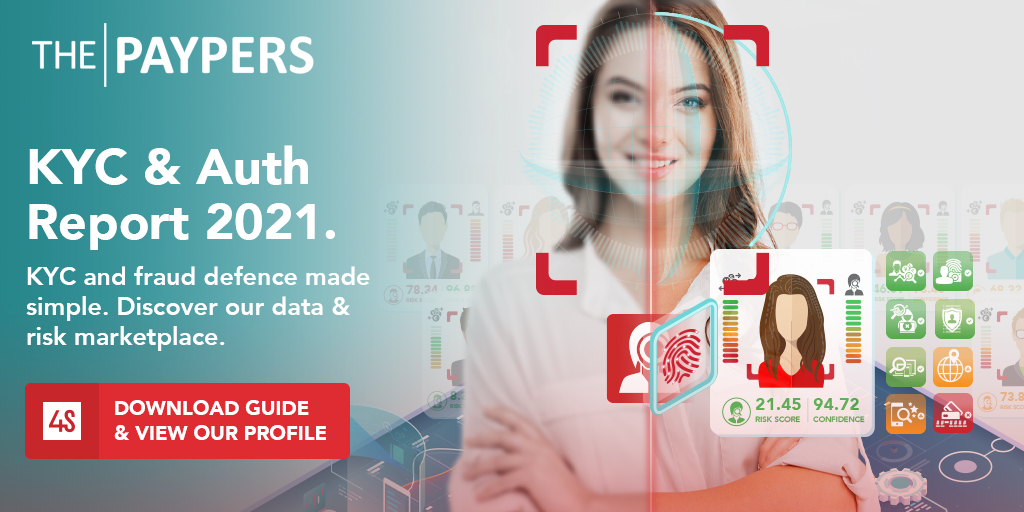
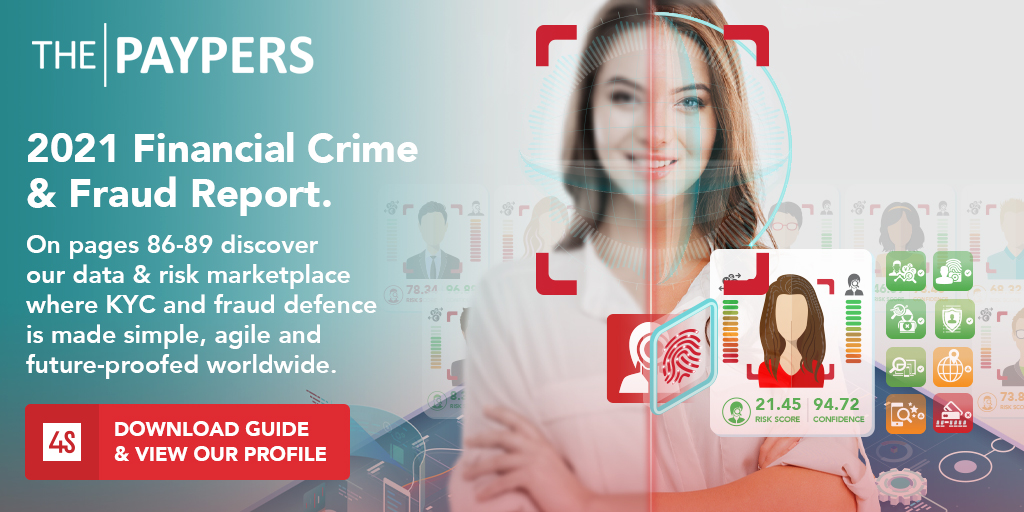
edits

Changed region(s): [[0.0, 0.25, 0.4062, 0.9375]]

diff --git a/company/careers.html b/company/careers.html
@@ -271,81 +271,81 @@ a.async=true;a.type="text/javascript";b.parentNode.insertBefore(a,b)}, 1);
 							
 						</div>
 
-<section id="section-team" class="page-section">
+				<section id="section-team" class="page-section">
 						<div class="col-lg-5 topmargin-sm">
 							<div style="position: relative;" class="ohidden" data-height-lg="426" data-height-md="567" data-height-sm="470" data-height-xs="287" data-height-xxs="183">
 								<img src="../images/services/4S-platform-dashboard.png" style="position: absolute; top: 0; left: 0;" data-animate="fadeInRight" data-delay="100" alt="Support Services">
 								<img src="../images/company/office-region.png" style="position: absolute; top: 0; left: 0;" data-animate="fadeInRight" data-delay="400" alt="Support Services">
 							</div>
 						</div>
+					
 					</div>
 				</div>
 				
 
-			<div class="container clearfix topmargin-md">
+			<div class="container clearfix">
 				<div class="row clearfix">
 					
 				
-				<div class="col-md-8">
-						<h3 style="font-size: 20px; font-weight:300; line-height: 1.4;"><b>Finance Employee - Accounting (m / f / d)</b> | Cologne, Germany, Head Office<br><b>Mitarbeiter Finanzen – Buchhaltung (w / m / d)</b> in Köln, ab sofort</h3>
-				</div>
+				<div class="col-md-12">
+						<h3 style="font-size: 20px; font-weight:300; line-height: 1.4;"><b>Underwriter / Onboarding Manager (w/m/d)</b> | Köln, Deutschland</h3>
 
-				<div class="col-md-4">
-						<p><a href="mailto:careers@4stop.com" class="button button-dark button-rounded uppercase nomargin" style="padding-right:40px; padding-left:40px;">Email us to apply today</a></p>
-				</div>
-
-				<div class="col-md-12 topmargin-sm">
-					<h3 style="font-size: 18px; font-weight: 300; line-height: 1.4; color:#484f5e;">Die FourStop GmbH ist ein Anbieter von Compliance- und Risikomanagement-Software. Das Unternehmen mit Hauptsitz in Köln bietet für die internationale Zahlungsindustrie eine integrierte One-Stop-Lösung für KYC, KYB, Compliance und Betrugsprävention. 
+						<h3 style="font-size: 18px; font-weight: 300; line-height: 1.4; color:#484f5e;">Als Underwriter / Onboarding Manager bei FourStop ist es Deine Aufgabe, das Wachstum des Unternehmens durch einen schnellen Start neuer Kunden zu ermöglichen und dauerhaft zu unterstützen. Zu den Kunden von FourStop gehören bekannte internationale Unternehmen mit Bedarf an RegTech-Lösungen. Von der allgemeinen Einschätzung potentieller Kunden über die Risiko-Bewertung bis hin zur Analyse der Einhaltung aller derzeit geltenden Regularien und Vorschriften wirst Du in jeder Phase des Onboarding-Prozesses die Effizienz steigern.
 
 					<br><Br>
-					Seit Gründung im Jahr 2016 konnte das internationale Team erfolgreich Kunden gewinnen und wird aktuell als eines von 25 Startups in Köln bewertet, die im Jahr 2020 im Blick zu behalten sind .
-					<br><br>
+					Der ideale Kandidat verfügt über außergewöhnliche analytische Fähigkeiten, einen ausgeprägten Geschäftssinn und ein solides kritisches Urteilsvermögen, insbesondere unter Termindruck und in einem schnelllebigen Arbeitsumfeld.
 
-					Zur Verstärkung im Finanzbereich suchen wir einen qualifizierten Mitarbeiter für unsere Buchhaltung, um quantitative Informationen über Leistung, Finanzlage, Zahlungsfähigkeit, Liquidität und Cashflows unseres Unternehmens bereitzustellen.
 					</h3> 
-
 				</div>
-			</div>
-		</div>
-
-
-		<div class="container clearfix topmargin-md bottommargin-md">
-			<div class="row clearfix">
 
 
 				
-				<div class="col-md-4">
+				<div class="col-md-12">
 					<h4 style="font-size:16px;">Deine Aufgaben:<br>
-									<span style="color:#58595b; font-size:14px;">
-									• Vorbereitende Buchhaltung für Kreditoren und Debitoren<Br> 
-									• Ansprechpartner für Steuerberater, Wirtschafts- und Betriebsprüfer<Br>
-									• Organisation, Überwachung und Sicherstellung der Abläufe in der Finanzbuchhaltung<Br>
-									• Erstellung von Rechnungen, regelmäßigen Auswertungen und Analysen <br>
-									• Weiterentwicklung aller mit der Buchhaltung zusammenhängenden Prozesse, Abläufe, Schnittstellen und Systeme</span></h4>
+						<span style="color:#58595b; font-size:14px;">
+							<ul style="padding-left:20px; padding-top:5px;">
+								<li>Durchführung der Erstprüfung und initiale Risikobewertung der potentiellen Kunden, um ihre Compliance zu überprüfen.</li>
+								<li>Durchführung von Due Diligence- und Hintergrundprüfungen, z. B. Website-Prüfungen, AGB oder Vertragsüberprüfung, sowie Stakeholder-Interviews, unter Verwendung interner und externer Ressourcen zur Geschäfts- und Compliance-Bewertung.</li>
+								<li>Funktion als Ansprechpartner für Antragsteller und Analyse der gesammelten Informationen.</li>
+								<li>Überprüfung und Bewertung von Verträgen, Vereinbarungen, NDAs usw. und mögliche Änderungen nach eigenem Ermessen vorschlagen.</li>
+								<li>Unterstützung der Entscheidungsprozesse und Aussprechen von Handlungsempfehlungen basierend auf Deiner gründlichen Analyse.</li>
+								<li>Entwicklung und Implementierung von benutzerfreundlichen Risikoparameter für neu genehmigte Kunden.</li>
+								<li>Verantwortung für die Gewährleistung, dass bestehende Kunden alle aktuellen Regularien und Vorschriften einhalten.</li>
+								<li>Aktive Entwicklung und Umsetzung neuer Prozesse, um das Onboarding-Verfahren kontinuierlich zu optimieren.</li>
+
+							</ul>
+						</span></h4>
 				</div>
 
-				<div class="col-md-4">
+				<div class="col-md-12">
 					<h4 style="font-size:16px;">Dein Profil:<br>
-									<span style="color:#58595b; font-size:14px;">
-									• Abgeschlossene Ausbildung oder vergleichbares Studium im Bereich der Finanz-/ Betriebswirtschaft <br>
-									• Praktische Erfahrung im genannten Aufgabenbereich von mindestens drei Jahren <Br>
-									• Erfahrung im Umgang mit Buchhaltungssoftware/-systemen insbesondere DATEV <br>
-									• Sehr gute MS Office-Kenntnisse <br>
-									• Sehr gute Englischkenntnisse in Wort und Schrift <br>
-									• Ausgeprägte analytische Fähigkeiten, strukturiertes Denken sowie sehr gutes Zahlenverständnis <br>
-									• Hohes Verantwortungsbewusstsein sowie eine schnelle Auffassungsgabe <br>
-									• Selbständigkeit, Zuverlässigkeit und Belastbarkeit gekoppelt mit einem hohen Maß an Kommunikationsfähigkeit und organisatorischem Geschick</span></h4>
+						<span style="color:#58595b; font-size:14px;">
+							<ul style="padding-left:20px; padding-top:5px;" >
+								<li>Methodische, sorgfältige und analytische Denkweise mit hervorragenden Planungs-, Dokumentations- und Organisationsfähigkeiten.</li>
+								<li>Min. 3 Jahre Berufserfahrung als Underwriter oder Onboarding Manager in einer datengesteuerten Umgebung.</li>
+								<li>Nachgewiesene Berufserfahrung mit AML, Due Diligence und Risikomanagement.</li>
+								<li>Analytisches Denken und die Fähigkeit, mehrere Faktoren in Bezug auf einen bestimmten Kunden zu bewerten und Empfehlungen anhand Deiner Erfahrung zu bewerten.</li>
+								<li>Detailorientierung sowohl bei der Auswertung von Anträgen als auch bei der Bedienung von Software oder der Dateneingabe.</li>
+								<li>Fähigkeit, ein hohes Maß an Vertraulichkeits- und Datensicherheitsstandards aufrechtzuerhalten.</li>
+								<li>Kompetenz zum Aufbau und effektiven Management von Beziehungen auf allen Ebenen eines Unternehmens.</li>
+								<li>Erfahrung in internationalen Teams und mit externen Partnern ist von Vorteil.</li>
+
+							</ul>	
+						</span>
+					</h4>
 				</div>
 
 
+				<div class="col-md-12">
+					<h4 style="font-size:16px;">Über 4Stop:<br>
+						<span style="color:#58595b; font-size:14px;">
+							FourStop ist ein Anbieter von Compliance- und Risikomanagementsoftware. Das Unternehmen mit Hauptsitz in Köln bietet der internationalen Payment-Branche eine integrierte One-Stop-Lösung für KYC, KYB, Compliance und Betrugsprävention. Das Team besteht aus vielfältigen und erfahrenen Branchenexperten in Deutschland, Großbritannien und Nordamerika, die sicherstellen, dass die Anforderungen globaler Kunden erfüllt werden. Seit der Gründung im Jahr 2016 konnte das internationale Unternehmen erfolgreich Kunden gewinnen und das Team erweitern. In 2020 wurde FourStop darüber hinaus als eines von 25 Startups in Köln eingestuft, um das im Auge zu behalten.
+						</span>
+					</h4>
+				</div>
+
 				<div class="col-md-4">
-					<h4 style="font-size:16px;">Was wir Dir bieten:<br>
-									<span style="color:#58595b; font-size:14px;">
-									• Interessantes und breites Aufgabenspektrum mit hohem Anteil eigenverantwortlicher Tätigkeit in einem jungen aufstrebenden Unternehmen<br>
-									• Kollegiales, teamgeprägtes und wertschätzendes Arbeitsumfeld mit flachen Hierarchien <Br>
-									• Sehr gute Entwicklungsmöglichkeiten wie beispielsweise die Weiterbildung zum Finanzbuchhalter <Br>
-									• Förderung der persönlichen Weiterentwicklung und deiner Stärken <br>
-									• Modernes Büro und flexible Arbeitszeiten (Remote Working, Gleitzeit nach Einarbeitung möglich) am Medienstandort Köln</span></h4>
+						<p><a href="mailto:careers@4stop.com" class="button button-dark button-rounded uppercase nomargin" style="padding-right:40px; padding-left:40px;">Apply Today</a></p>
 				</div>
 
 			</div>
@@ -356,117 +356,84 @@ a.async=true;a.type="text/javascript";b.parentNode.insertBefore(a,b)}, 1);
 
 
 
-					
 
+			<div class="container clearfix topmargin-sm">
+				<div class="row clearfix">
 
-		<!--<div class="container clearfix topmargin-md">
-			<div class="row clearfix">
 
 				<div class="line bottommargin-md"></div>
-
-				<div class="col-md-8">
 					
-						<h3 style="font-size: 20px; font-weight:300; line-height: 1.4;"><b>Risk Support Analyst</b> | Costa Rica Position</b></h3>
-				</div>
-
-				<div class="col-md-4">
-						<p><a href="mailto:careers@4stop.com" class="button button-dark button-rounded uppercase nomargin" style="padding-right:40px; padding-left:40px;">Email us to apply today</a></p>
-				</div>
 				
-				<div class="col-md-5">
-					<h4 style="font-size:16px;">Responsibilities Include:<br>
-									<span style="color:#58595b; font-size:14px;">
-									• Monitoring systems and product optimization<br>
-									• Support clients with product inquiries and frontline technical<br>
-									• Identify Risk anomalies and optimize policies<br>
-									• Analyze review policies and data management<br>
-									• Documenting and validating business requirements</span></h4>
+				<div class="col-md-12">
+						<h3 style="font-size: 20px; font-weight:300; line-height: 1.4;"><b>Compliance Officer / Compliance Manager (w/m/d)</b> | Köln, Deutschland</h3>
+
+						<h3 style="font-size: 18px; font-weight: 300; line-height: 1.4; color:#484f5e;">Wir suchen einen erfahrenen Compliance Officer / Compliance Manager, der die Einhaltung und Umsetzung aller aktuellen gesetzlichen Standards und internen Richtlinien sicherstellt. Du bist somit verantwortlich für die Durchsetzung von Vorschriften in allen Aspekten und Ebenen des Unternehmens sowie für Beratung bei rechtlichen Angelegenheiten. 
+
+					<br><br>
+					Der ideale Kandidat kennt sich mit rechtlichen Richtlinien und Best Practices für Corporate Governance aus. Du bist Compliance-Experte mit hohen ethischen Standards und scheust dich auch nicht davor bei Bedarf mal „Nein“ zu sagen.</h3>
+				</div>
+		
+
+
+				
+				<div class="col-md-12">
+					<h4 style="font-size:16px;">Deine Aufgaben:<br>
+						<span style="color:#58595b; font-size:14px;">
+							<ul style="padding-left:20px; padding-top:5px;">
+								<li>Entwicklung und Umsetzung von Unternehmensrichtlinien und -vorschriften.</li>
+								<li>Überwachung aller Geschäftsvorgänge in Bezug auf Compliance, einschließlich aktueller Richtlinien und Verfahren.</li>
+								<li>Überprüfung und Bewertung von Verträgen, Vereinbarungen, NDAs usw. und mögliche Änderungen nach eigenem Ermessen vorschlagen.</li>
+								<li>Implementierung sowie Verwaltung von ISO27001, GDPR oder ähnlichen Vorschriften auf Basis von fundierten Kenntnissen im Umgang mit Informationssicherheit und Datenschutz.</li>
+								<li>Skizzierung und Überwachung von Kontrollsystemen zur Handhabung von Verstößen gegen gesetzliche Vorschriften und interne Richtlinien.</li>
+								<li>Regelmäßige Bewertung der Effizienz von Steuerungssystemen und Empfehlung praktischer Verbesserungen.</li>
+								<li>Überprüfung und Bewertung der Unternehmensabläufe, um versteckte Risiken oder Nichtkonformitätsprobleme zu identifizieren.</li>
+								<li>Koordinierung mit Abteilungsleitern oder Managern, um alle Richtlinien zur Einhaltung von Compliance-Richtlinien zu überprüfen.</li>
+								<li>Durchführung regelmäßiger Audits der Unternehmensabläufe und -prozesse sowie ggf. Erstellung von Berichten für die Geschäftsleitung und externe Aufsichtsbehörden.</li>
+								<li>Fundierte Kenntnisse der regulatorischen Entwicklungen innerhalb oder außerhalb des Unternehmens sowie Weiterentwicklung der Best Practices für die Compliance-Kontrolle.</li>
+
+							</ul>
+						</span></h4>
 				</div>
 
-				<div class="col-md-5">
-					<h4 style="font-size:16px;">Skills & Experience Required:<br>
-									<span style="color:#58595b; font-size:14px;">
-									• KYC and Compliance experience <br>
-									• Achievement oriented with proven management skills <br>
-									• The ability to work independently and as part of a team <br>
-									• Managing multiple priorities with tight deadline <br>
-									• Strong attention to detail and verbal communication skills</span></h4>
+				<div class="col-md-12">
+					<h4 style="font-size:16px;">Dein Profil:<br>
+						<span style="color:#58595b; font-size:14px;">
+							<ul style="padding-left:20px; padding-top:5px;" >
+								<li>Methodische, sorgfältige und analytische Denkweise mit hervorragenden Planungs-, Dokumentations- und Organisationsfähigkeiten.</li>
+								<li>Bachelor Abschluss in Rechtswissenschaften, Betriebswirtschaftslehre oder einem verwandten Bereich.</li>
+								<li>Min. 3 Jahre Berufserfahrung als Compliance Officer, Compliance Manager oder Anwalt mit einem Compliance-Fokus.</li>
+								<li>Fundierte Kenntnisse der Branchenprozesse und -vorschriften.</li>
+								<li>Hervorragendes Verständnis der Rechts- und Compliance-Landschaft sowie die Fähigkeit, auf der Grundlage Deines Wissens geeignete Prozesse für das Unternehmen zu entwickeln.</li>
+								<li>Hervorragende Kommunikations- und zwischenmenschliche Fähigkeiten.</li>
+								<li>Erfahrung in internationalen Teams und mit externen Kanzleien ist von Vorteil.</li>
+
+							</ul>	
+						</span>
+					</h4>
 				</div>
 
-				<div class="col-md-12 bottommargin-md">
-					
-					<h4 style="font-size:16px; font-weight:300;">
-						<em>POSITIONS AVAILABLE:</em><br>
-						
 
-					<b>Full-Time Position</b> Mon - Fri</h4>
-
-						
+				<div class="col-md-12">
+					<h4 style="font-size:16px;">Über 4Stop:<br>
+						<span style="color:#58595b; font-size:14px;">
+							FourStop ist ein Anbieter von Compliance- und Risikomanagementsoftware. Das Unternehmen mit Hauptsitz in Köln bietet der internationalen Payment-Branche eine integrierte One-Stop-Lösung für KYC, KYB, Compliance und Betrugsprävention. Das Team besteht aus vielfältigen und erfahrenen Branchenexperten in Deutschland, Großbritannien und Nordamerika, die sicherstellen, dass die Anforderungen globaler Kunden erfüllt werden. Seit der Gründung im Jahr 2016 konnte das internationale Unternehmen erfolgreich Kunden gewinnen und das Team erweitern. In 2020 wurde FourStop darüber hinaus als eines von 25 Startups in Köln eingestuft, um das im Auge zu behalten.
+						</span>
+					</h4>
 				</div>
+
+				<div class="col-md-4 bottommargin-md">
+						<p><a href="mailto:careers@4stop.com" class="button button-dark button-rounded uppercase nomargin" style="padding-right:40px; padding-left:40px;">Apply Today</a></p>
+				</div>
+
 			</div>
-		</div>-->
+		</div>
 
-				
 
-					
 
-				
 
-				<!--
-					<div class="col-md-12 bottommargin-sm">
-						<div class="col-md-6">
-							<div class="col-md-2">
-								<img src="../images/company/position-data.png" width="150px;" data-animate="fadeIn">
-							</div>
 
-							<div class="col-md-10">
-								<h3 style="font-size: 20px; font-weight:300; line-height: 1.4;"><b>Risk Support Analyst</b> <br>Part-time Weekends <em>(North American Business)</em><br><span style="font-size:16px;">Fri, Sat, Sun - hours X to X</span></h3>
-								<h4 style="font-size:16px;">Responsibilities Include:<br>
-									<span style="color:#58595b; font-size:14px;">
-									• Monitoring systems and product optimization<br>
-									• Support clients with product inquiries and frontline technical<br>
-									• Identify Risk anomalies and optimize policies<br>
-									• Analyze review policies and data management<br>
-									• Documenting and validating business requirements</span></h4>
 
-								<h4 style="font-size:16px;">Skills & Experience Required:<br>
-									<span style="color:#58595b; font-size:14px;">
-									• KYC and Compliance experience <br>
-									• Achievement oriented with proven management skills <br>
-									• The ability to work independently and as part of a team <br>
-									• Managing multiple priorities with tight deadline <br>
-									• Strong attention to detail and verbal communication skills</span></h4>
-							</div>
-						</div>
 
-						<div class="col-md-6">
-							<div class="col-md-2">
-								<img src="../images/company/position-data.png" width="150px;" data-animate="fadeIn">
-							</div>
-
-							<div class="col-md-10">
-								<h3 style="font-size: 20px; font-weight:300; line-height: 1.4;"><b>Risk Support Analyst</b> <br>Full-time <em>(European Business)</em><br><span style="font-size:16px;">Fri, Sat, Sun - hours X to X</span></h3>
-								<h4 style="font-size:16px;">Responsibilities Include:<br>
-									<span style="color:#58595b; font-size:14px;">
-									• Monitoring systems and product optimization<br>
-									• Support clients with product inquiries and frontline technical<br>
-									• Identify Risk anomalies and optimize policies<br>
-									• Analyze review policies and data management<br>
-									• Documenting and validating business requirements</span></h4>
-
-								<h4 style="font-size:16px;">Skills & Experience Required:<br>
-									<span style="color:#58595b; font-size:14px;">
-									• KYC and Compliance experience <br>
-									• Achievement oriented with proven management skills <br>
-									• The ability to work independently and as part of a team <br>
-									• Managing multiple priorities with tight deadline <br>
-									• Strong attention to detail and verbal communication skills</span></h4>
-							</div>
-						</div>
-
-							
-
-					</div>-->
 
 
 				

diff --git a/media/paypers-kycguide2021.html b/media/paypers-kycguide2021.html
@@ -200,7 +200,7 @@
 									<h2 class="topmargin-sm" style="color:#FFF;"  data-caption-animate="fadeInUp">KYC & Fraud Defence.</h2>
 
 									<h3 class="topmargin-xsm " style="color:#FFF;"  data-caption-animate="fadeInUp" data-caption-delay="200">
-										The Paypers Digital Onboarding and KYC Report 2021 has launched. Check out our solutions data and risk marketplace featuring premium global data services and anti-fraud from one API.</h3>
+										The Paypers Financial Crime and Fraud Report 2021 has launched. Check out our solutions data and risk marketplace featuring premium global data services and anti-fraud from one API.</h3>
 
 
 									<p data-caption-animate="fadeInUp" data-caption-delay="200"><!--The global pandemic forged a new evolution of online engagement that many experts were not anticipating for years. Online businesses desperately require customer onboarding and fraud prevention solutions in a future-proofed, agile, and streamlined manner... <br><br> -->
@@ -235,12 +235,12 @@
 						</div>
 						
 						<div class="col-md-10 left">
-								<h2 class="heading-block " style="font-weight:300; line-height:1.3;"><b>Digital Onboarding and KYC Report 2021</b><br>
+								<h2 class="heading-block " style="font-weight:300; line-height:1.3;"><b>Financial Crime and Fraud Report 2021</b><br>
 
 									<span style="font-size:20px; font-weight:300;">
 									Discover key insightful perspectives on global KYC management, latest identity verification and authentication technology and trends.<br><br> 
 
-									Published April Xth, 2021. <a href="" target="_blank">Download Report Guide</a></span></h2>
+									Published April 27th, 2021. <a href="https://thepaypers.com/reports/financial-crime-and-fraud-report-2021/r1248631" target="_blank">Download Report Guide</a></span></h2>
 						</div>
 
 
@@ -268,7 +268,7 @@
 
 									4Stop aggregates over 150 data services with 2000+ data sources and advanced proprietary technology to establish a modern end-to-end Know Your Business (KYB), Know Your Customer (KYC) compliance and anti-fraud marketplace. Businesses can select exactly what they need, where they need it and apply it instantly into their operations through various implementation methods - a white-labelled experience, the 4Stop cloud platform or the API. Eliminating the need to manage multiple third-party data providers with associated contracts and fees, drain on development resources, time to market or cumbersome processes staying current with regulatory and fraud prevention requirements. 4Stop gives flexibility, agility and future-proofed sustainability from a single integration. 
 
-									<a href="https://thepaypers.com/reports/digital-onboarding-and-kyc-report-2020/r1240850" target="_blank">View our full profile in the guide pages 60-63.</a></h3>
+									<a href="https://thepaypers.com/reports/financial-crime-and-fraud-report-2021/r1248631" target="_blank">View our full profile in the guide pages 86-89.</a></h3>
 							</div>
 
 
@@ -482,7 +482,7 @@
 					<div class="col-md-12 bottommargin-md topmargin-md center">
 							
 							<h3 style="font-size: 18px; font-weight: 300; line-height: 1.4; color:#484f5e;">
-							<a href="" target="_blank" class="button button-dark button-rounded uppercase nomargin" style="padding-right:40px; padding-left:40px;">Download Digital Onboarding and KYC Report 2021 Now</a></h3>
+							<a href="https://thepaypers.com/reports/financial-crime-and-fraud-report-2021/r1248631" target="_blank" class="button button-dark button-rounded uppercase nomargin" style="padding-right:40px; padding-left:40px;">Download Digital Onboarding and KYC Report 2021 Now</a></h3>
 
 							</div>
 

diff --git a/index.html b/index.html
@@ -205,7 +205,7 @@
 									<h2 class="topmargin-sm" style="color:#FFF;"  data-caption-animate="fadeInUp">KYC & Fraud Defence.</h2>
 
 									<h3 class="topmargin-xsm " style="color:#FFF;"  data-caption-animate="fadeInUp" data-caption-delay="200">
-										The Paypers Digital Onboarding and KYC Report 2021 has launched. Check out our solutions data and risk marketplace featuring premium global data services and anti-fraud from one API.</h3>
+										The Paypers Financial Crime and Fraud Report 2021 has launched. Check out our solutions data and risk marketplace featuring premium global data services and anti-fraud from one API.</h3>
 
 
 									<p data-caption-animate="fadeInUp" data-caption-delay="200"><!--The global pandemic forged a new evolution of online engagement that many experts were not anticipating for years. Online businesses desperately require customer onboarding and fraud prevention solutions in a future-proofed, agile, and streamlined manner... <br><br> -->
@@ -1319,10 +1319,10 @@
 									<a href="media/paypers-kycguide2021.html"><img class="image_fade" src="media/images/homepage/news-hp-paypers-kycreport2021.jpg"></a>
 								</div>
 								<div class="entry-title">
-									<h4><a href="media/paypers-kycguide2021.html">We are profiled in The Paypers Digital Onboarding and KYC Report 2021. Check out our data and risk marketplace.</a></h4><br>
+									<h4><a href="media/paypers-kycguide2021.html">We are profiled in The Paypers Financial Crime and Fraud Report 2021. Check out our data and risk marketplace.</a></h4><br>
 								</div>
 								<ul class="entry-meta clearfix">
-									<li><i class="icon-film"></i> April Xth, 2021<Br><br>
+									<li><i class="icon-film"></i> April 27th, 2021<Br><br>
 									<a href="media/paypers-kycguide2021.html" style="color:#c02026;"><i class="icon-newspaper"></i>View Report & Profile</a></li>
 								</ul>
 							</div>

diff --git a/media/index.html b/media/index.html
@@ -198,7 +198,7 @@
 									<h2 class="topmargin-sm" style="color:#FFF;"  data-caption-animate="fadeInUp">KYC & Fraud Defence.</h2>
 
 									<h3 class="topmargin-xsm " style="color:#FFF;"  data-caption-animate="fadeInUp" data-caption-delay="200">
-										The Paypers Digital Onboarding and KYC Report 2021 has launched. Check out our solutions data and risk marketplace featuring premium global data services and anti-fraud from one API.</h3>
+										The Paypers Financial Crime and Fraud Report 2021 has launched. Check out our solutions data and risk marketplace featuring premium global data services and anti-fraud from one API.</h3>
 
 
 									<p data-caption-animate="fadeInUp" data-caption-delay="200"><!--The global pandemic forged a new evolution of online engagement that many experts were not anticipating for years. Online businesses desperately require customer onboarding and fraud prevention solutions in a future-proofed, agile, and streamlined manner... <br><br> -->
